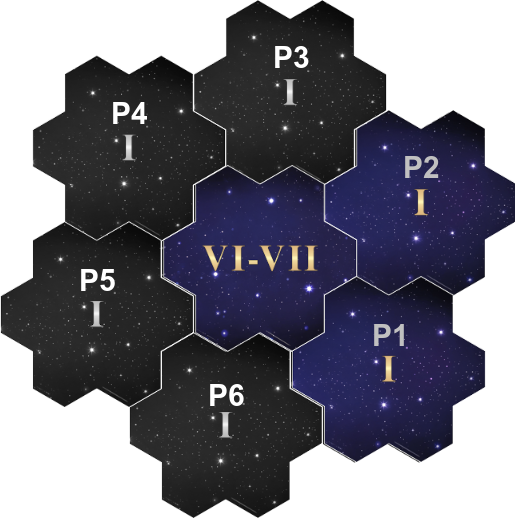
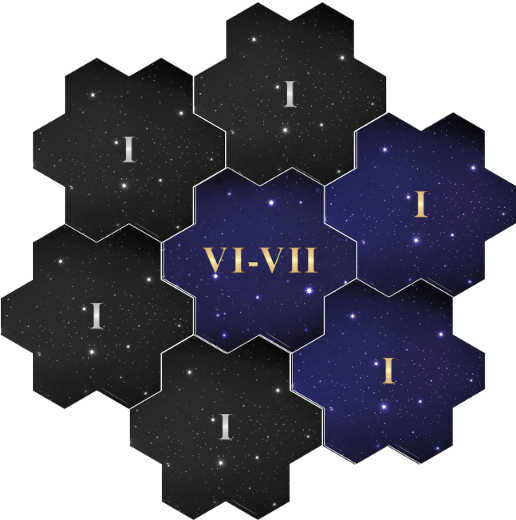
Fixed table. Fixed Map. Adjusted game based on playtest result.

diff --git a/draft-scenarios/coops/the_ambushed_accord.tex b/draft-scenarios/coops/the_ambushed_accord.tex
@@ -22,7 +22,7 @@ Out of the mist, enemy armies struck with deadly precision. Someone had betrayed
 \textbf{Starting Units:}
 
 \begin{itemize}
-  \item 2 × Search (2) the \svg{bronze} Neutral Deck
+  \item 2 × Search (2) the \svg{bronze} Neutral Deck and 1 x \svg{morale_positive} 
 \end{itemize}
 
 \textbf{Town Buildings:} City Hall
@@ -49,22 +49,26 @@ End of \textbf{\nth{4} Round:}
 \begin{itemize}
   \item \textbf{one player} must fight a \textbf{Timed Event Fight} of 5 × \svg{bronze}.
 \end{itemize}
-End of \textbf{\nth{8} Round:}
+End of \textbf{\nth{7} Round:}
 \begin{itemize}
   \item \textbf{one player} must fight a \textbf{Timed Event Fight} of 4 × \svg{silver}
 \end{itemize}
-End of \textbf{\nth{10} Round:}
+End of \textbf{\nth{9} Round:}
 \begin{itemize}
   \item \textbf{one player} must fight a \textbf{Timed Event Fight} of 3 × \svg{golden}.
 \end{itemize}
-End of \textbf{\nth{12} Round:}
+End of \textbf{\nth{11} Round:}
 \begin{itemize}
   \item \textbf{one player} must fight a \textbf{Timed Event Fight} of 2 × \svg{azure}.
+\end{itemize}
+End of \textbf{\nth{13} Round:}
+\begin{itemize}
+	\item \textbf{one player} must fight a \textbf{Timed Event Fight} of 3 × \svg{azure}.
 \end{itemize}
 \clearpage
 
 \subsection*{\MakeUppercase{Additional Rules}}
-\hommtablemulticol[]{21}{
+\hommtablemulticol[]{22}{
   \centering
   \medskip
   \textbf{Difficutly Settings}\\
@@ -73,6 +77,8 @@ End of \textbf{\nth{12} Round:}
     \darkcell[1.6]{Difficulty} & \darkcell[1.6]{Changes to Timed Event Fights} \\
     \darkcell[1.6]{Easy}
     & \lightcell[1.6]{Remove a Unit from each fight.} \\
+    \darkcell[1.6]{Normal}
+    & \lightcell[1.6]{No Change} \\
     \darkcell[2.2]{Hard}
     & \lightcell[2.2]{Add an Initiative Stack Token to a random Unit of the fights on Rounds 4, 8 and 10.} \\
     \darkcell[1.8]{Impossible}
@@ -87,13 +93,13 @@ End of \textbf{\nth{12} Round:}
   \item For games with 1--3 players, only one player needs to fight each Timed Event Fight. The players may decide which eligible player will fight.
   \item For games with 4 or more players, \textbf{two players} must each fight a Timed Event Fight when the event occurs.
   \item Players are not eligible to fight a Timed Event Fight if they have already won more Timed Event Fights than another player, or if they have no Units.
-  \item Defeating a Timed Event Fight grants a permanent +1 \svg{movement} to your Main Hero.
+  \item Defeating a Timed Event Fight grants a free \svg{morale_positive}.
   \item If a player is defeated in a Timed Event Fight, their Hero is sent back to their Town with no Units. The remaining Units must be defeated by another player. If no player is eligible to fight, players lose the Scenario.
 \end{itemize}
 
 \subsubsection*{\MakeUppercase{Other Rules}}
 \begin{itemize}
-  \item At the end of every Round, players must decide which player gets a free \svg{morale_positive} Token.
+  \item At the end of every Astrologers Round, players must decide which player gets a free \svg{morale_positive} Token.
   \item Players may exchange Artifacts and Spells from their hands, as well as Units and Resources, if their Main Heroes are standing on adjacent Fields or if both Heroes are in their own Towns.
   \item Once a player defeats the Level VII Center Tile Field, their Heroes are removed from the Map.
     They are no longer eligible to fight Timed Event Fights.
@@ -103,4 +109,11 @@ End of \textbf{\nth{12} Round:}
 \begin{tikzpicture}[overlay]
   \centering
   \node at (9, -3) {\includegraphics[scale=0.35]{\maps/the_ambushed_accord_px.png}};
+  \color{white}
+  \node at (10.6, -4) {\footnotesize{\textbf{\MakeUppercase{P1}}}};
+  \node at (11, -2) {\footnotesize{\textbf{\MakeUppercase{P2}}}};
+  \node at (9.4, -0.6) {\footnotesize{\textbf{\MakeUppercase{P3}}}};
+  \node at (7.4, -1.3) {\footnotesize{\textbf{\MakeUppercase{P4}}}};
+  \node at (7, -3.3) {\footnotesize{\textbf{\MakeUppercase{P5}}}};
+  \node at (8.6, -4.7) {\footnotesize{\textbf{\MakeUppercase{P6}}}};
 \end{tikzpicture}
